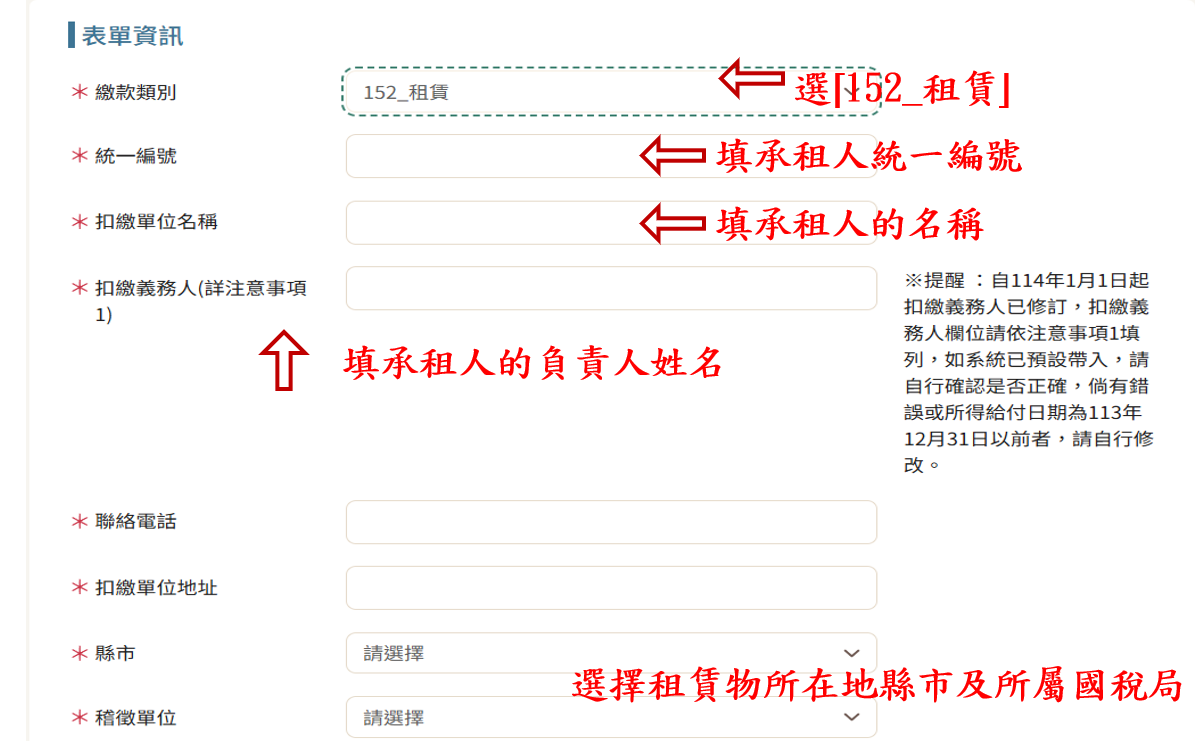
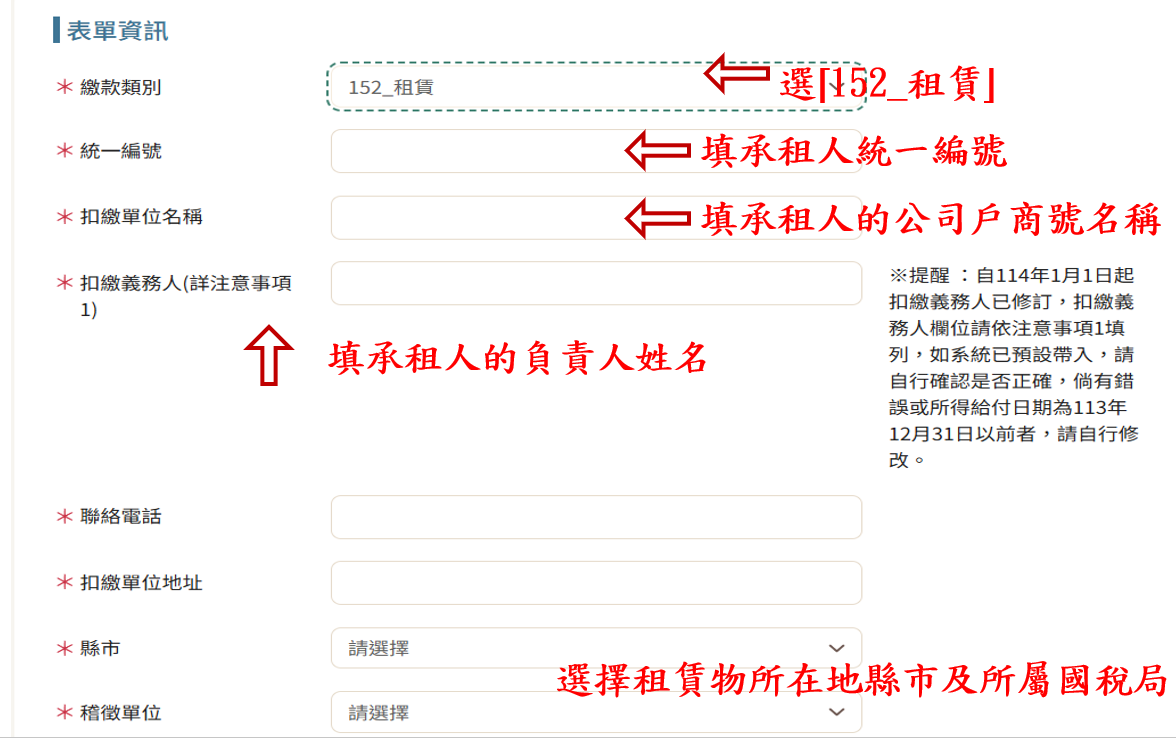
將公證人資訊並進index

diff --git a/index.html b/index.html
@@ -8,7 +8,97 @@
   <link rel="stylesheet" href="https://cdnjs.cloudflare.com/ajax/libs/font-awesome/6.4.0/css/all.min.css">
   <link rel="stylesheet" href="style.css">
 </head>
+<style>
+      .notary-section {
+      max-width: 1100px;
+      margin: 40px auto 80px;
+      padding: 0 20px;
+      display: grid;
+      grid-template-columns: repeat(auto-fit, minmax(480px, 1fr));
+      gap: 30px;
+    }
 
+    .notary-card {
+      background-color: #ffffff;
+      border-radius: 8px;
+      box-shadow: 0 4px 15px rgba(0, 51, 102, 0.08);
+      border: 1px solid #e1e8ed;
+      padding: 35px 30px;
+      transition: transform 0.3s ease, box-shadow 0.3s ease;
+    }
+
+    .notary-card:hover {
+      transform: translateY(-5px);
+      box-shadow: 0 8px 25px rgba(0, 51, 102, 0.15);
+    }
+
+    .notary-header {
+      display: flex;
+      align-items: center;
+      gap: 15px;
+      border-bottom: 2px solid #0066cc;
+      padding-bottom: 15px;
+      margin-bottom: 20px;
+    }
+
+    .notary-avatar {
+      width: 60px;
+      height: 60px;
+      background-color: #eaf2f8;
+      color: #003366;
+      border-radius: 50%;
+      display: flex;
+      justify-content: center;
+      align-items: center;
+      font-size: 26px;
+      flex-shrink: 0;
+    }
+
+    .notary-title h2 {
+      font-size: 24px;
+      color: #003366;
+      font-weight: 600;
+    }
+
+    /* 認證資格標籤 */
+    .badge-certified {
+      display: inline-block;
+      background-color: #e6f0fa;
+      color: #0066cc;
+      font-size: 13px;
+      padding: 4px 10px;
+      border-radius: 12px;
+      margin-top: 5px;
+      font-weight: bold;
+    }
+
+    /* 資歷列表 */
+    .notary-info-list {
+      list-style: none;
+      padding: 0;
+    }
+
+    .notary-info-list li {
+      position: relative;
+      padding-left: 24px;
+      margin-bottom: 12px;
+      font-size: 15px;
+      color: #444444;
+      line-height: 1.6;
+    }
+
+    /* 列表勾選圖示 */
+    .notary-info-list li::before {
+      content: "\f00c"; /* FontAwesome Check icon */
+      font-family: "Font Awesome 6 Free";
+      font-weight: 900;
+      position: absolute;
+      left: 0;
+      top: 2px;
+      color: #0066cc;
+      font-size: 14px;
+    }
+</style>
 <body>
 
   <!-- 1. Header 頁首導覽 -->
@@ -28,15 +118,15 @@
   <main class="container">
     
     <!-- 左側分類與搜尋 (Sidebar) -->
-  <aside>
+  <!-- <aside>
     <h2 class="sidebar-title">公證人資訊 <span>Notary Public</span></h2>
-    <ul class="category-list">
+    <ul class="category-list"> -->
       <!-- 加入 a 標籤設定 href="about.html" -->
-      <a href="about.html" style="text-decoration: none; color: inherit; display: block;">
+      <!-- <a href="about.html" style="text-decoration: none; color: inherit; display: block;">
         <li class="category-item active">公證人介紹</li>
       </a>
     </ul>
-</aside>
+</aside> -->
 
     <!-- 右側卡片列表 (Article Cards) -->
     <section class="article-grid">
@@ -44,6 +134,49 @@
   
     <a>地圖圖片放置處</a>
 
+    </section>
+
+
+    <section class="notary-section">
+
+      <!-- 盧宥霖 公證人 -->
+      <div class="notary-card">
+        <div class="notary-header">
+          <div class="notary-avatar">
+            <i class="fa-solid fa-user-tie"></i>
+          </div>
+          <div class="notary-title">
+            <h2>盧宥霖 公證人</h2>
+          </div>
+        </div>
+        <ul class="notary-info-list">
+          <li>臺灣大學法學碩士</li>
+          <li>臺灣大學土木碩士</li>
+          <li>臺灣大學土木學士</li>
+          <li>宏鑑法律事務所 律師</li>
+          <li>益思科技法律事務所 實習律師</li>
+        </ul>
+      </div>
+
+      <!-- 汪家合 公證人 -->
+      <div class="notary-card">
+        <div class="notary-header">
+          <div class="notary-avatar">
+            <i class="fa-solid fa-user-tie"></i>
+          </div>
+          <div class="notary-title">
+            <h2>汪家合 公證人</h2>
+            <div class="badge-certified"><i class="fa-solid fa-award"></i> 司法院核定英文第一級，可辦理英文公證、認證</div>
+          </div>
+        </div>
+        <ul class="notary-info-list">
+          <li>臺灣大學法學碩士</li>
+          <li>英國倫敦大學經濟碩士</li>
+          <li>臺灣大學政治、經濟雙學士</li>
+          <li>普華商務法律事務所 (資誠聯合會計師事務所聯盟) 律師</li>
+          <li>德勤商務法律事務所 (勤業眾信聯合會計師事務所聯盟) 實習律師</li>
+        </ul>
+      </div>
     </section>
 
   </main>

diff --git a/footer.html b/footer.html
@@ -29,7 +29,7 @@
     <div style="flex: 1; min-width: 250px;">
       <h3 style="color: #ffffff; font-size: 18px; margin-bottom: 15px; border-bottom: 1px solid #666; padding-bottom: 8px;">本所交通便利</h3>
       <p style="margin: 8px 0; color: #ddd; line-height: 1.6;">後驛捷運站 2 號出口旁</p>
-      <p style="margin: 8px 0; color: #ddd; line-height: 1.6;">807 高雄市博愛一路148號</p>
+      <p style="margin: 8px 0; color: #ddd; line-height: 1.6;">807 高雄市博愛一路200號</p>
       <p style="margin: 8px 0; color: #bbb; font-size: 14px;">(周一至周五 9:00-17:00 中午不休息)</p>
       <p style="margin-top: 15px;">
         <a href="https://www.google.com/maps/search/?api=1&query=高雄市博愛一路200號" target="_blank" rel="noopener noreferrer" style="color: #ffffff; text-decoration: underline;">

diff --git a/style.css b/style.css
@@ -109,25 +109,25 @@
       margin: 10px auto 60px;
       padding: 0 20px;
       display: grid;
-      grid-template-columns: 280px 1fr;
+      flex-direction: column;
       gap: 30px;
     }
 
     /* 左側邊欄 Sidebar */
-    .sidebar-title {
+    /* .sidebar-title {
       font-size: 20px;
       font-weight: normal;
       color: #444;
       margin-bottom: 20px;
-    }
-
+    } */
+/* 
     .sidebar-title span {
       font-family: serif;
       font-style: italic;
       color: #777;
     }
 
-  
+   */
 
     .category-list {
       list-style: none;
@@ -378,5 +378,11 @@
       .sidebar-title {
         text-align: center; /* 讓內部文字置中 */
         margin-bottom: 15px;
+      }
+      .notary-section {
+        grid-template-columns: 1fr;
+      }
+      .notary-card {
+        padding: 25px 20px;
       }
   }

diff --git a/lease/print2.html b/lease/print2.html
@@ -23,7 +23,7 @@
       
       <h1 class="page-title">如何列印「二代健保補充保費」繳款書？<br>操作教學</h1>
       <p class="intro-text">
-        房客給付租金時，欲扣繳 <span class="highlight-yellow">1.91% 二代健保補充保費</span>，列印繳款書的操作教學如下：
+        房客付租金時，欲扣繳 <span class="highlight-yellow">2.11% 二代健保補充保費</span>，繳款書列印步驟如下：
       </p>
 
       <!-- 步驟 1 -->

diff --git a/lease/print1.html b/lease/print1.html
@@ -23,7 +23,7 @@
       
       <h1 class="page-title">如何列印「租金扣繳稅款」繳款書？<br>操作教學</h1>
       <p class="intro-text">
-        房客要付租金時，如果需要扣繳 <span class="highlight-yellow">10% 的租金稅款</span>，請跟著以下步驟印出繳款書：
+        房客付租金時，若需要扣繳 <span class="highlight-yellow">10% 的租金稅款</span>，繳款書列印步驟如下：
       </p>
 
       <!-- 步驟 1 -->
